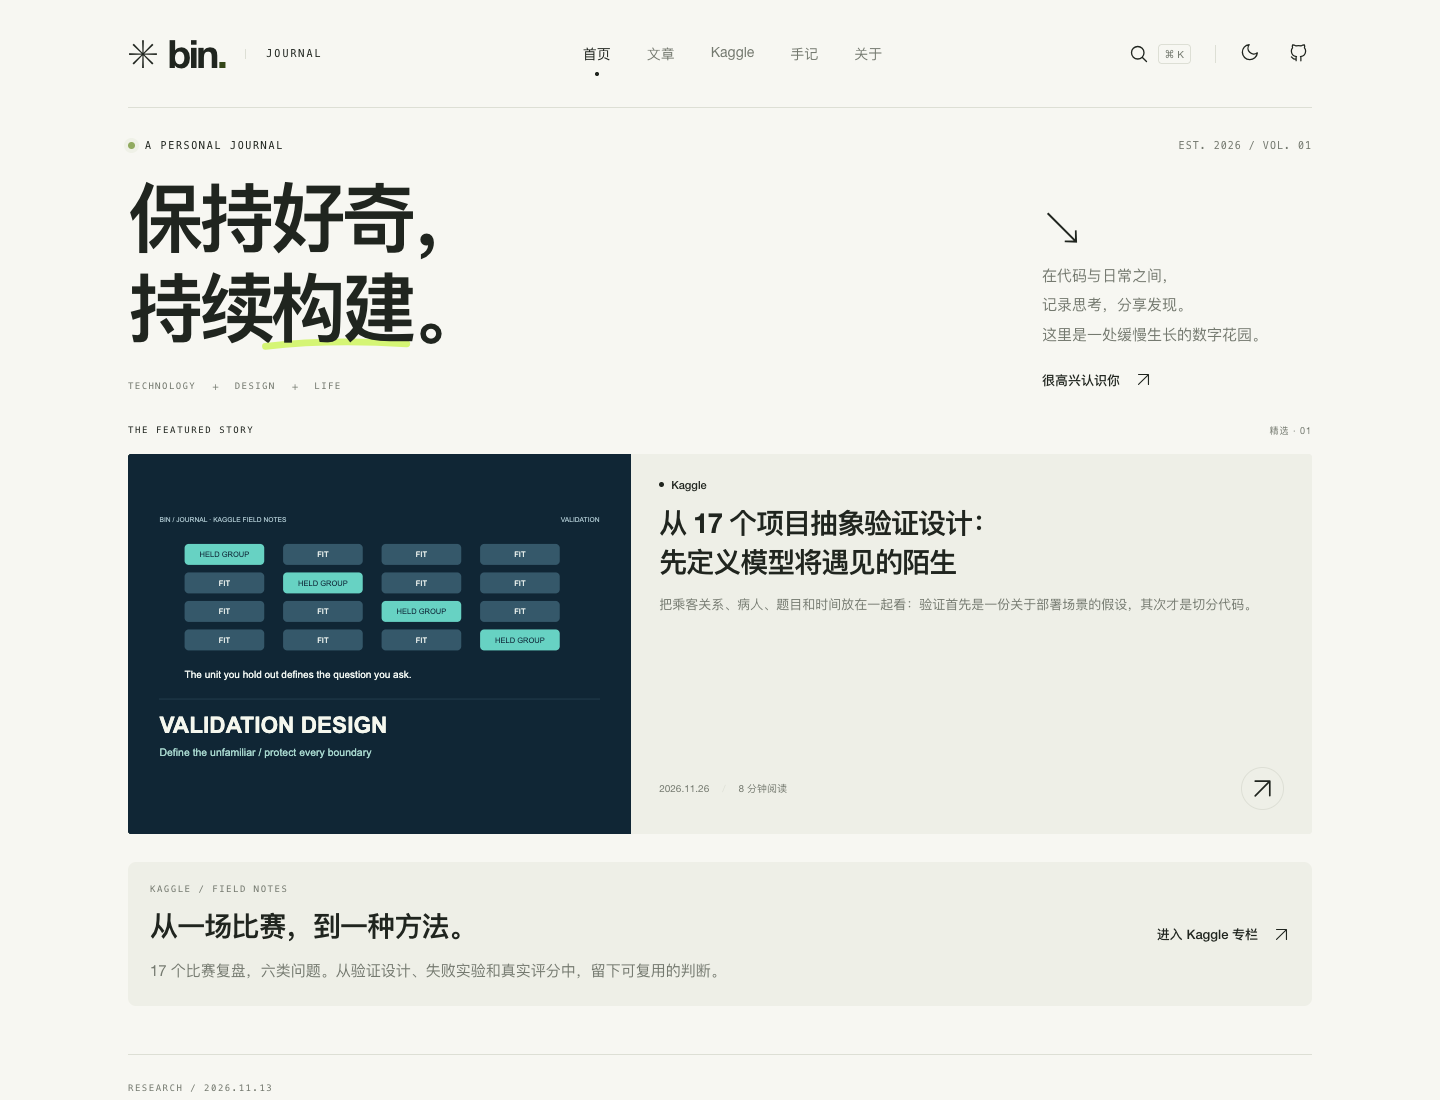
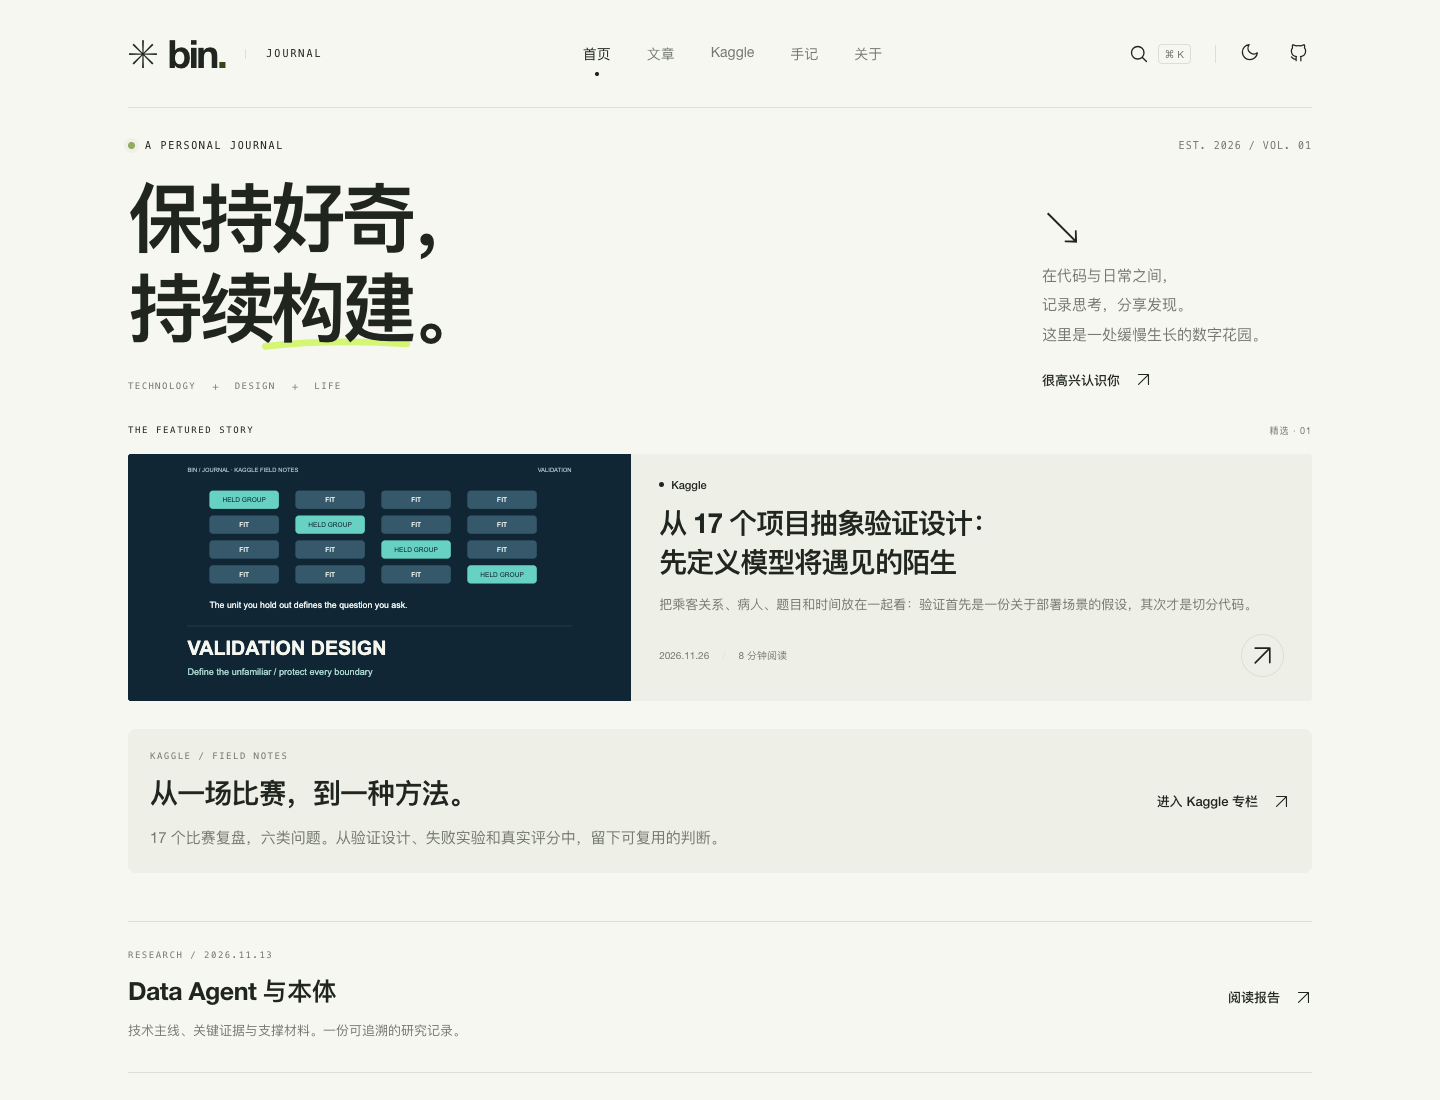
fix: remove inherited minimum height from featured article

diff --git a/src/styles/kaggle.css b/src/styles/kaggle.css
@@ -65,7 +65,7 @@
 .kaggle-article .article-toc { padding:12px 16px; margin-bottom:18px; }
 .kaggle-article .article-toc ul { display:flex; flex-direction:row; flex-wrap:wrap; gap:5px 20px; list-style:none; padding:0; margin-top:8px; }
 .post-card:has(.editorial-cover) .post-cover { aspect-ratio:2.6; }
-.featured-story:has(.editorial-cover) { grid-template-columns:.85fr 1.15fr; }
+.featured-story:has(.editorial-cover) { grid-template-columns:.85fr 1.15fr; min-height:0; }
 .featured-story:has(.editorial-cover) .featured-art { min-height:220px; }
 .featured-story:has(.editorial-cover) .featured-copy { padding:24px 28px; }
 .featured-story:has(.editorial-cover) .featured-copy h2 { font-size:28px; line-height:1.4; margin-top:12px; max-width:none; }

diff --git a/tests/e2e/blog.spec.ts b/tests/e2e/blog.spec.ts
@@ -23,6 +23,8 @@ test('navigation and article reading work without horizontal overflow', async ({
   await page.goto('/');
   await expect(page.getByRole('heading', { level: 1 })).toContainText('保持好奇');
   await expect(page.locator('[data-post-card]')).toHaveCount(6);
+  const featured = await page.locator('.featured-story').boundingBox();
+  expect(featured!.height).toBeLessThan(info.project.name === 'mobile' ? 520 : 330);
   expect(await page.evaluate(() => document.documentElement.scrollWidth <= window.innerWidth)).toBe(true);
   if (info.project.name === 'mobile') {
     await page.getByRole('button', { name: '打开导航' }).click();
